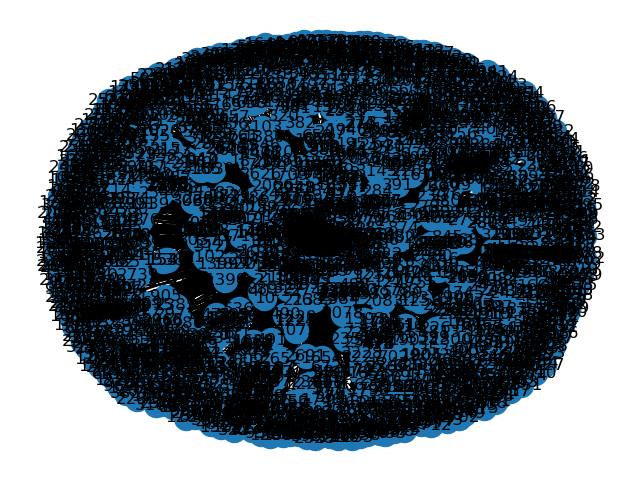
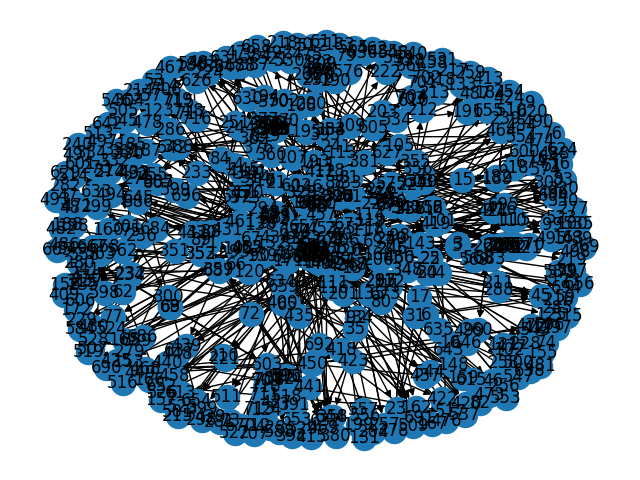
pulling update

diff --git a/tool/ClusteringCallGraph.py b/tool/ClusteringCallGraph.py
@@ -104,7 +104,7 @@ class ClusteringCallGraph:
     def tgf_to_networkX(self):
 
         # path = easygui.fileopenbox()
-        f = open("sklearnSept7.txt", "r")
+        f = open("detectronSept7.txt", "r")
         # f = open(path, "r")
         G = nx.DiGraph()
         # print("Function name: ")
@@ -729,9 +729,9 @@ class ClusteringCallGraph:
         return str
 
 
-c = ClusteringCallGraph()
-
-c.python_analysis()
-
-workbook.close()
+# c = ClusteringCallGraph()
+#
+# c.python_analysis()
+#
+# workbook.close()
 
